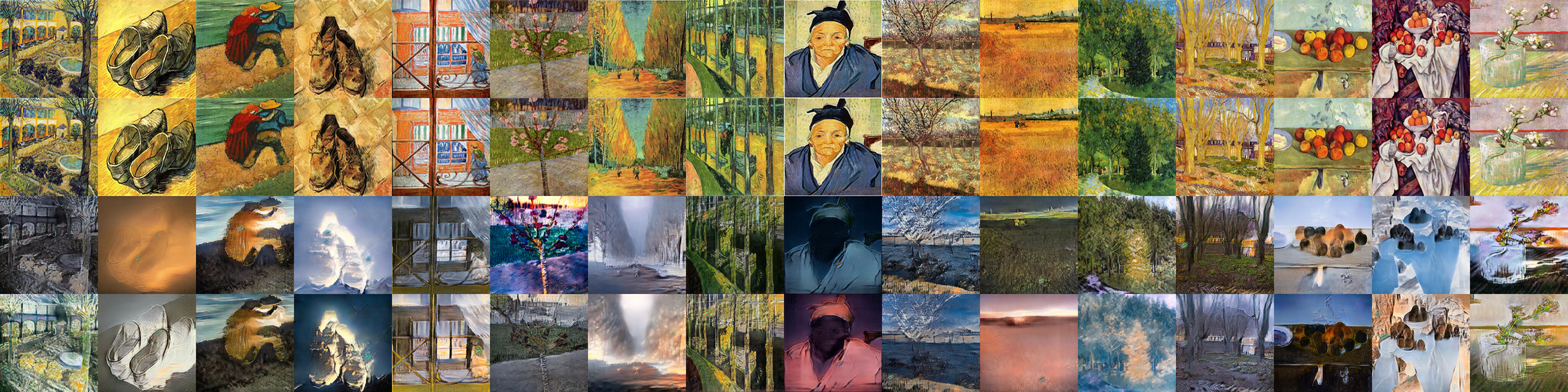
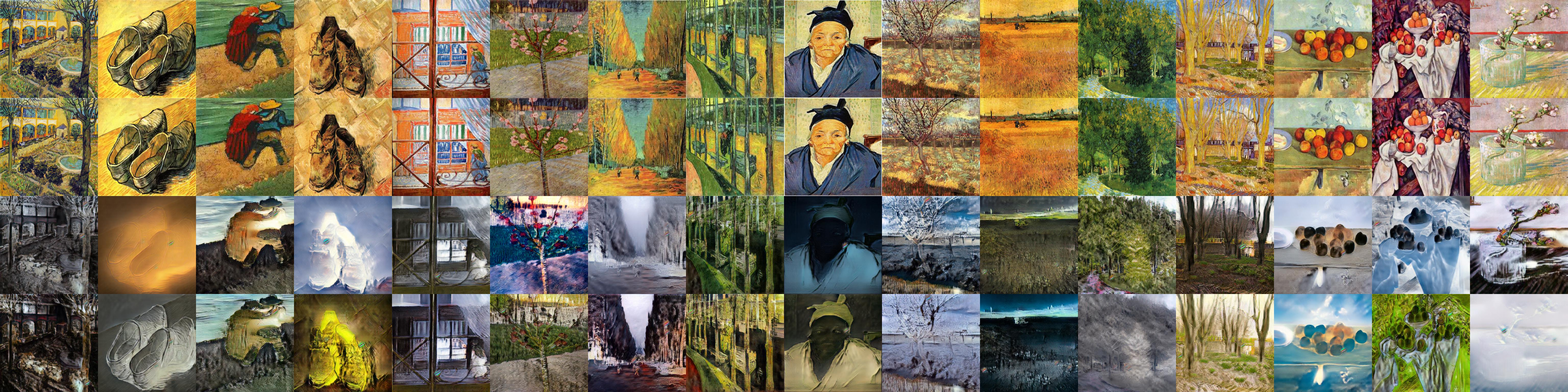
new figures

Changed region(s): [[0.0, 0.5, 1.0, 1.0]]

diff --git a/model/new_munit_vgg_2.py b/model/new_munit_vgg_2.py
@@ -46,7 +46,7 @@ params = {
 'vgg_model_path': '/home/diegushko/checkpoint/vgg',
 
 # optimization options
-'max_iter': 200000,             # maximum number of training iterations
+'max_iter': 300000,             # maximum number of training iterations
 'batch_size': 1,                 # batch size
 'weight_decay': 0.0001,          # weight decay
 'beta1': 0.5,                    # Adam parameter
@@ -91,7 +91,7 @@ params = {
 'new_size': 384,                               # first resize the shortest image side to this size
 'crop_image_height': 384,                      # random crop image of this height
 'crop_image_width': 384,                       # random crop image of this width
-'data_root': '/home/diegushko/dataset/monet2photo'   # dataset folder location
+'data_root': '/home/diegushko/dataset/vangogh2photo'   # dataset folder location
 }
 
 IMG_EXTENSIONS = [
